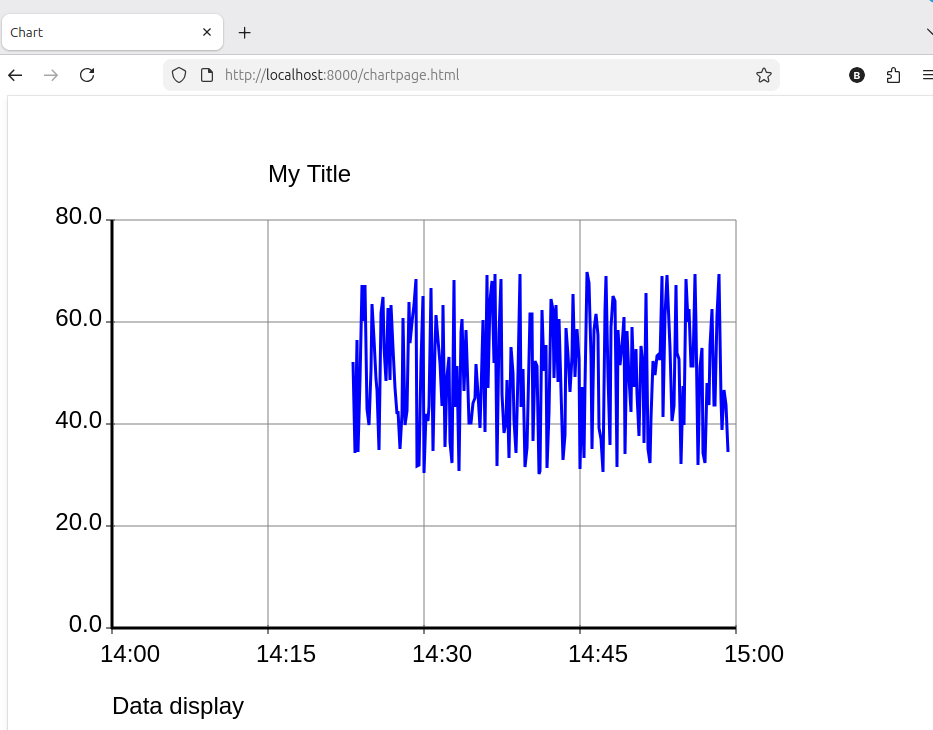
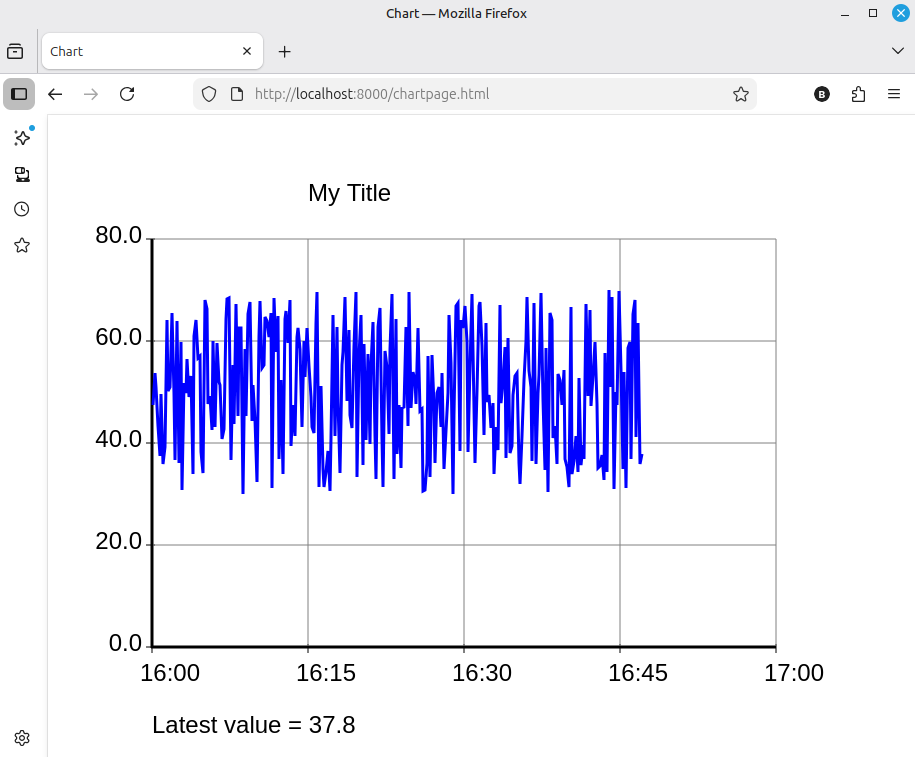
version 0.0.2

diff --git a/README.md b/README.md
@@ -51,7 +51,7 @@ Running "python3 -m webtimeline" will then run the following script and will ser
 
 Alternatively, if you use UV, simply running "uvx webtimeline" will load and run the above.
 
-The web page is purposely minimal, without any CSS. The code could be obtained from github and the Mako templates altered for a more pleasant view.
+The web page is purposely minimal, without any CSS. The code could be obtained from github and the Mako templates altered for a more pleasant view. Feel free to adapt, this is public domain using the 'unlicense'.
 
 Dependencies are:
 
